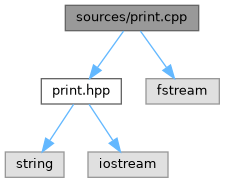
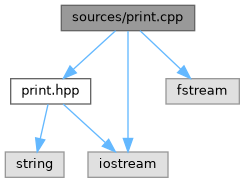
deploy: dafba024ea90e4a41a91b48f18de97f8bef925b5

diff --git a/print_8cpp.html b/print_8cpp.html
@@ -80,20 +80,22 @@ $(function() {
 <div class="contents">
 <div class="textblock"><code>#include &lt;<a class="el" href="print_8hpp_source.html">print.hpp</a>&gt;</code><br />
 <code>#include &lt;fstream&gt;</code><br />
+<code>#include &lt;iostream&gt;</code><br />
 </div><div class="textblock"><div class="dynheader">
 Include dependency graph for print.cpp:</div>
 <div class="dyncontent">
 <div class="center"><img src="print_8cpp__incl.png" border="0" usemap="#asources_2print_8cpp" alt=""/></div>
 <map name="asources_2print_8cpp" id="asources_2print_8cpp">
-<area shape="rect" title=" " alt="" coords="65,5,199,31"/>
-<area shape="rect" href="print_8hpp.html" title="Заголовочный файл с функциями вывода текста" alt="" coords="41,79,121,104"/>
-<area shape="poly" title=" " alt="" coords="126,33,100,69,95,66,121,29"/>
-<area shape="rect" title=" " alt="" coords="146,79,219,104"/>
-<area shape="poly" title=" " alt="" coords="143,29,169,66,164,69,138,33"/>
-<area shape="rect" title=" " alt="" coords="5,152,64,177"/>
-<area shape="poly" title=" " alt="" coords="76,106,52,142,48,139,71,103"/>
+<area shape="rect" title=" " alt="" coords="61,5,195,31"/>
+<area shape="rect" href="print_8hpp.html" title="Заголовочный файл с функциями вывода текста" alt="" coords="11,79,91,104"/>
+<area shape="poly" title=" " alt="" coords="117,33,75,71,72,67,114,29"/>
 <area shape="rect" title=" " alt="" coords="88,152,168,177"/>
-<area shape="poly" title=" " alt="" coords="91,103,115,139,111,142,87,106"/>
+<area shape="poly" title=" " alt="" coords="131,31,131,138,125,138,125,31"/>
+<area shape="rect" title=" " alt="" coords="166,79,239,104"/>
+<area shape="poly" title=" " alt="" coords="142,29,182,67,179,71,138,33"/>
+<area shape="rect" title=" " alt="" coords="5,152,64,177"/>
+<area shape="poly" title=" " alt="" coords="51,105,43,139,38,138,45,104"/>
+<area shape="poly" title=" " alt="" coords="65,102,107,141,103,144,61,106"/>
 </map>
 </div>
 </div><table class="memberdecls">

diff --git a/print_8hpp_source.html b/print_8hpp_source.html
@@ -88,7 +88,7 @@ $(document).ready(function() { init_codefold(0); });
 <div class="line"><a id="l00009" name="l00009"></a><span class="lineno">    9</span><span class="preprocessor">#include &lt;iostream&gt;</span></div>
 <div class="line"><a id="l00010" name="l00010"></a><span class="lineno">   10</span> </div>
 <div class="line"><a id="l00016" name="l00016"></a><span class="lineno">   16</span><span class="keywordtype">void</span> <a class="code hl_function" href="print_8hpp.html#ae12fd32fb711d3e888d4cd8a65974c65">print</a>(<span class="keyword">const</span> std::string&amp; text, std::ostream&amp; out = std::cout);</div>
-<div class="ttc" id="aprint_8hpp_html_ae12fd32fb711d3e888d4cd8a65974c65"><div class="ttname"><a href="print_8hpp.html#ae12fd32fb711d3e888d4cd8a65974c65">print</a></div><div class="ttdeci">void print(const std::string &amp;text, std::ostream &amp;out=std::cout)</div><div class="ttdoc">Функция для записи текста в любой стандартный выходной поток</div><div class="ttdef"><b>Definition</b> print.cpp:4</div></div>
+<div class="ttc" id="aprint_8hpp_html_ae12fd32fb711d3e888d4cd8a65974c65"><div class="ttname"><a href="print_8hpp.html#ae12fd32fb711d3e888d4cd8a65974c65">print</a></div><div class="ttdeci">void print(const std::string &amp;text, std::ostream &amp;out=std::cout)</div><div class="ttdoc">Функция для записи текста в любой стандартный выходной поток</div><div class="ttdef"><b>Definition</b> print.cpp:5</div></div>
 </div><!-- fragment --></div><!-- contents -->
 <!-- start footer part -->
 <hr class="footer"/><address class="footer"><small>
